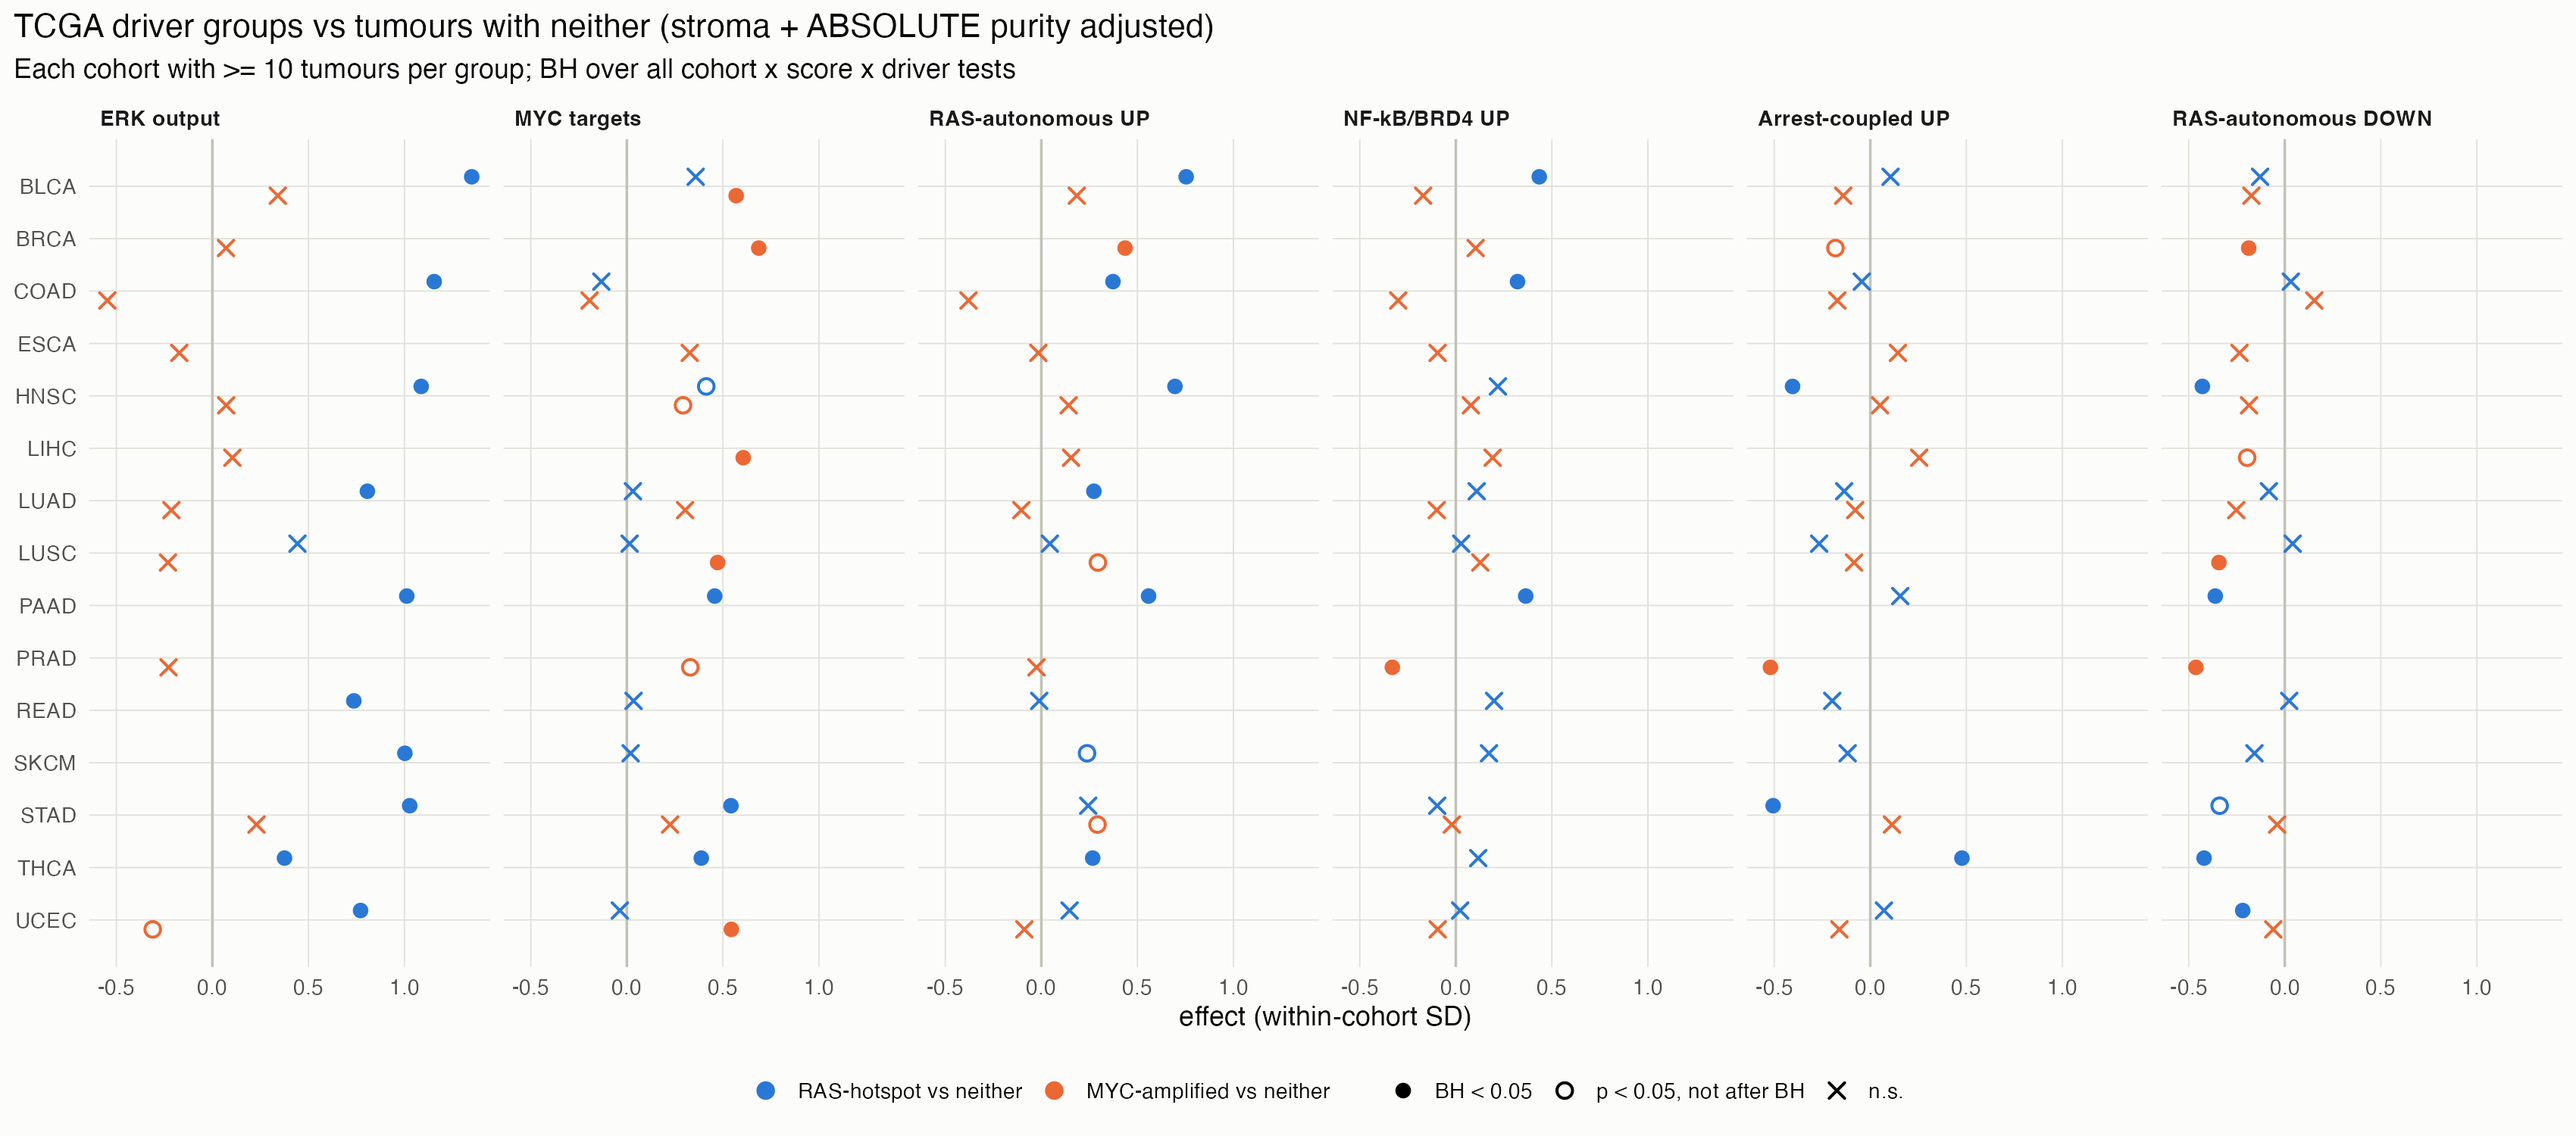
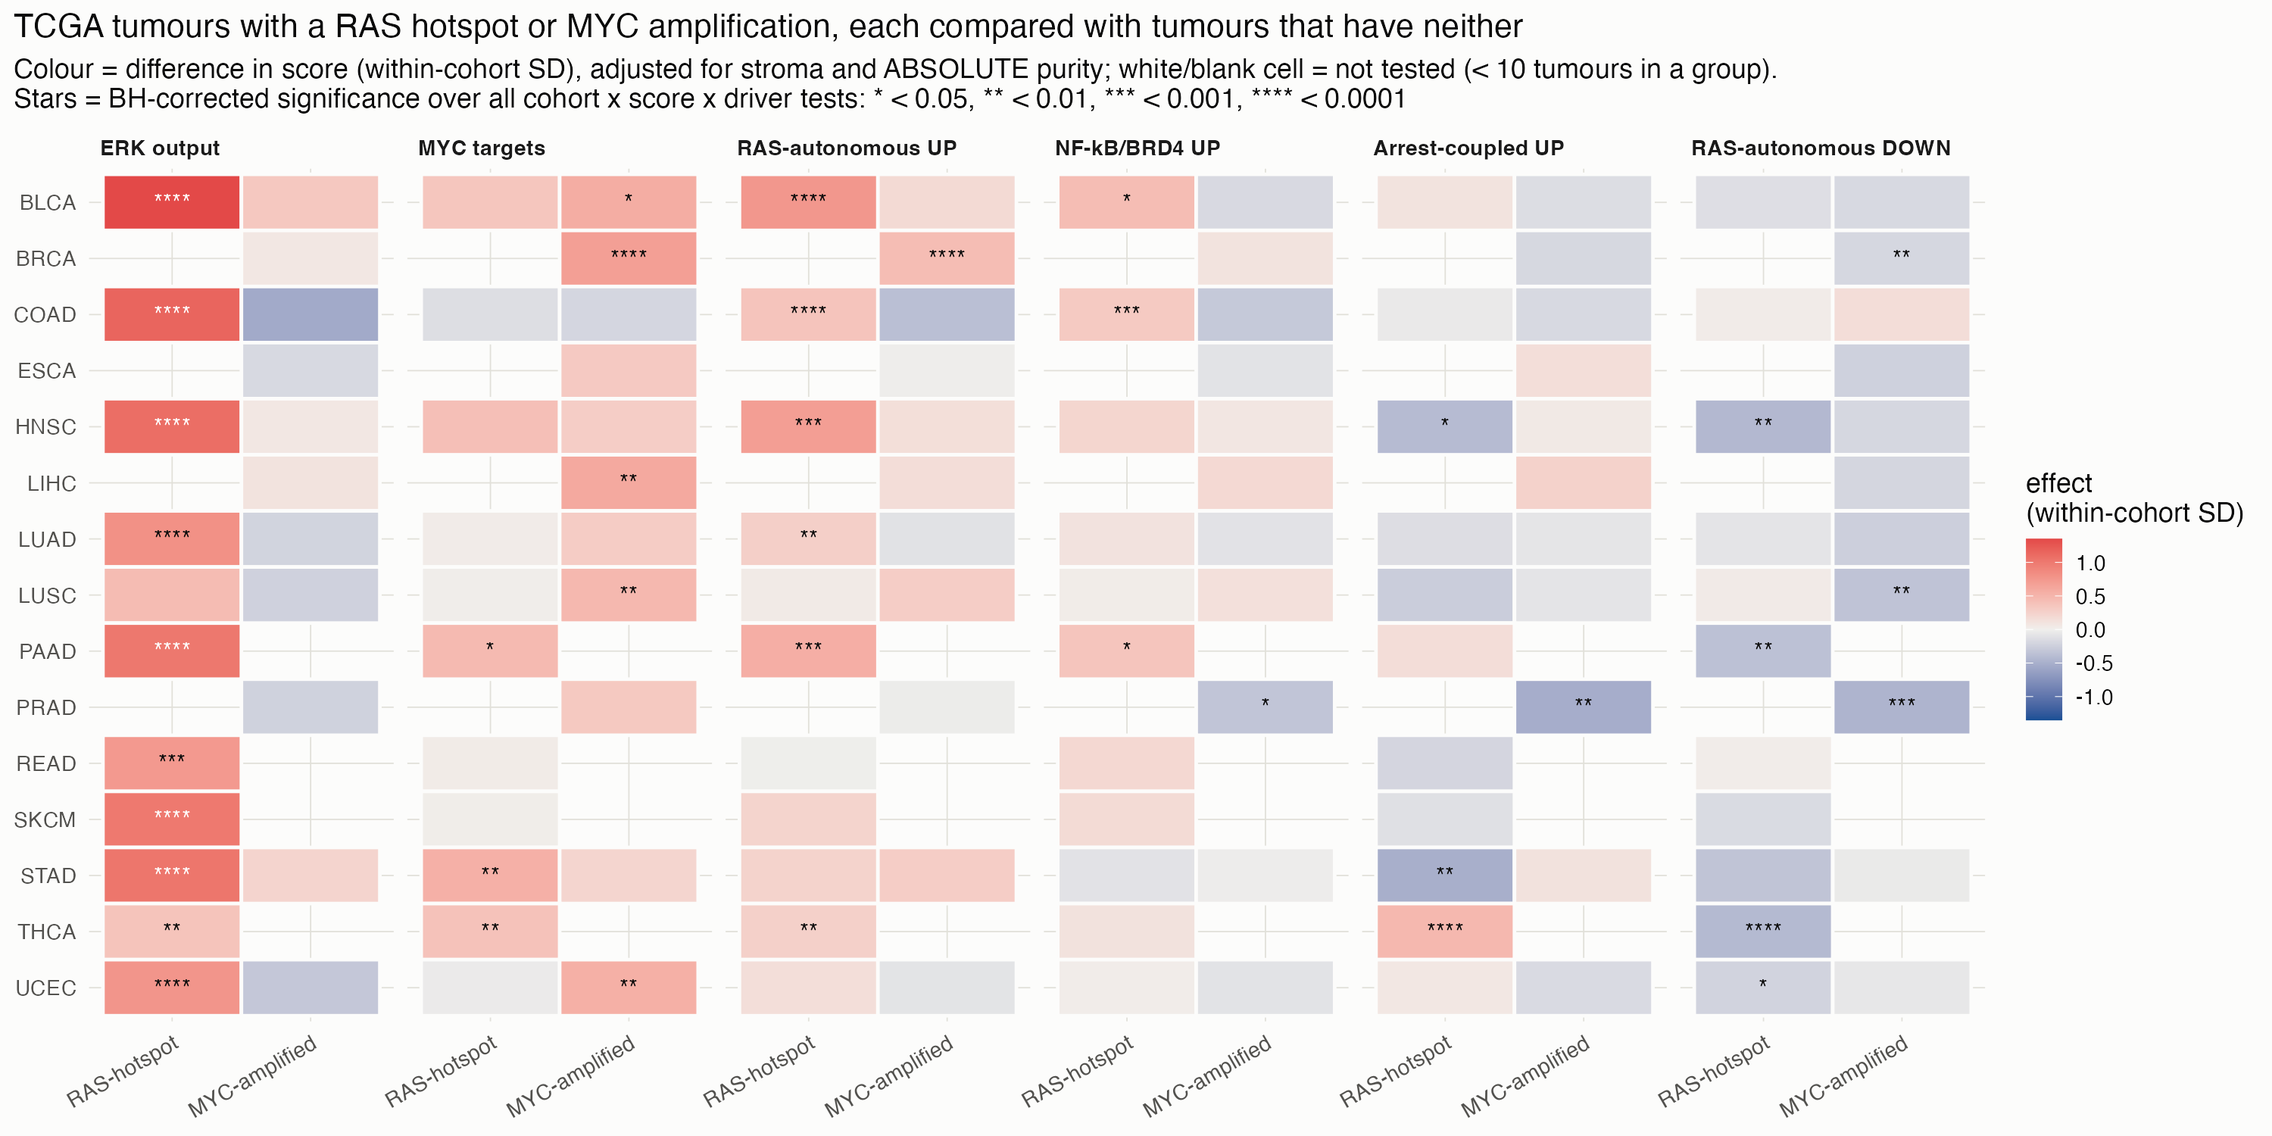
Exploratory: stars instead of p values, clearer Fig 4 test labels, Fig 5 as tile grid; legends updated

diff --git a/exploratory/figures/FIGURE_LEGENDS.md b/exploratory/figures/FIGURE_LEGENDS.md
@@ -24,7 +24,8 @@ DUSP6, SPRY2, SPRY4, ETV4, ETV5, FOSL1, EGR1. Choices behind each figure: `../DE
   tested in the OIS meta-analysis.
 - **Markers:** filled = p < 0.05 (not corrected); bar = median across cancers.
 - **Brackets:** paired Wilcoxon signed-rank tests between classes across the 17 cancers (paired by cancer), BH over
-  the 6 tests (`summary_tables/07_fig1_paired_class_tests.csv`).
+  the 6 tests, shown as stars: * < 0.05, ** < 0.01, *** < 0.001, **** < 0.0001
+  (`summary_tables/07_fig1_paired_class_tests.csv`).
 - **Source:** `summary_tables/02_tcga_overlap_by_class_strict.csv`. Script: `figures_summary.R`.
 
 ---
@@ -92,28 +93,30 @@ is the arrest-coupled DOWN set; "RAS-autonomous" and "NF-κB/BRD4-dependent" are
 - **Scores:** mean within-cohort z of VST expression of the set's genes.
 - **Points:** one per cohort and predictor (standardised coefficient). Filled = p < 0.05 (not
   corrected); bar = median.
-- **Stars:** Wilcoxon signed-rank test across the 20 cohorts that the coefficient differs from 0, BH over 12 tests.
-  **Bracket:** paired Wilcoxon across cohorts, ERK vs MYC coefficient, BH over 4 tests
-  (`summary_tables/07_fig4_*.csv`). Stars: * < 0.05, ** < 0.01, *** < 0.001, **** < 0.0001.
+- **Stars under each column:** is that coefficient different from 0 across the 20 cohorts (Wilcoxon signed-rank,
+  BH over the 12 class × predictor tests)?
+- **Stars on the bracket at the top:** is the ERK coefficient different from the MYC coefficient across the 20
+  cohorts (paired Wilcoxon, BH over the 4 classes)?
+- Stars: * < 0.05, ** < 0.01, *** < 0.001, **** < 0.0001; n.s. ≥ 0.05. Tables: `summary_tables/07_fig4_*.csv`.
 - **Caveat:** predictors are correlated, so each coefficient is conditional on the others.
 - **Source:** `summary_tables/05_tcga_activity_models_stroma_purity.csv`. Script: `figures_summary.R`.
 
 ---
 
-**Fig. 5 | TCGA tumours grouped by driver.**
+**Fig. 5 | TCGA tumours with a RAS hotspot or MYC amplification, each compared with tumours that have neither.**
 `fig5_tcga_driver_models.png`
 
+- **Layout:** one row per cohort; under each score, two columns: RAS-hotspot vs neither and MYC-amplified vs
+  neither.
 - **Groups** (cBioPortal TCGA PanCanAtlas):
   - RAS-hotspot = KRAS/NRAS/HRAS missense at codons 12/13/61, or BRAF V600.
   - MYC-amplified = GISTIC = 2.
-  - Each group is compared with tumours carrying neither; tumours with both are excluded.
-  - Cohorts with ≥ 10 tumours in both groups.
-- **Effect:** coefficient of the group indicator for a score standardised within cohort, adjusted
-  for the stromal proxy and ABSOLUTE purity (+ sample type for SKCM).
-- **Colour:** blue = RAS-hotspot vs neither; orange = MYC-amplified vs neither (each cohort row has one point per
-  driver that met the group-size rule).
-- **Marker:** filled = BH < 0.05 (correction across all cohort × score × driver tests); open = p < 0.05 before
-  correction only; cross = p ≥ 0.05.
+  - Tumours with both are excluded. A cell is tested only when both groups have ≥ 10 tumours in that cohort;
+    blank cells were not tested.
+- **Colour:** difference in the score between the driver group and "neither", in within-cohort SD, adjusted for
+  the stromal proxy and ABSOLUTE purity (+ sample type for SKCM). Red = higher in the driver group, blue = lower.
+- **Stars:** BH-corrected significance over all cohort × score × driver tests: * < 0.05, ** < 0.01,
+  *** < 0.001, **** < 0.0001; no star = BH ≥ 0.05.
 - **Source:** `summary_tables/05_tcga_driver_models_stroma_purity.csv`. Script: `figures_summary.R`.
 
 ---
